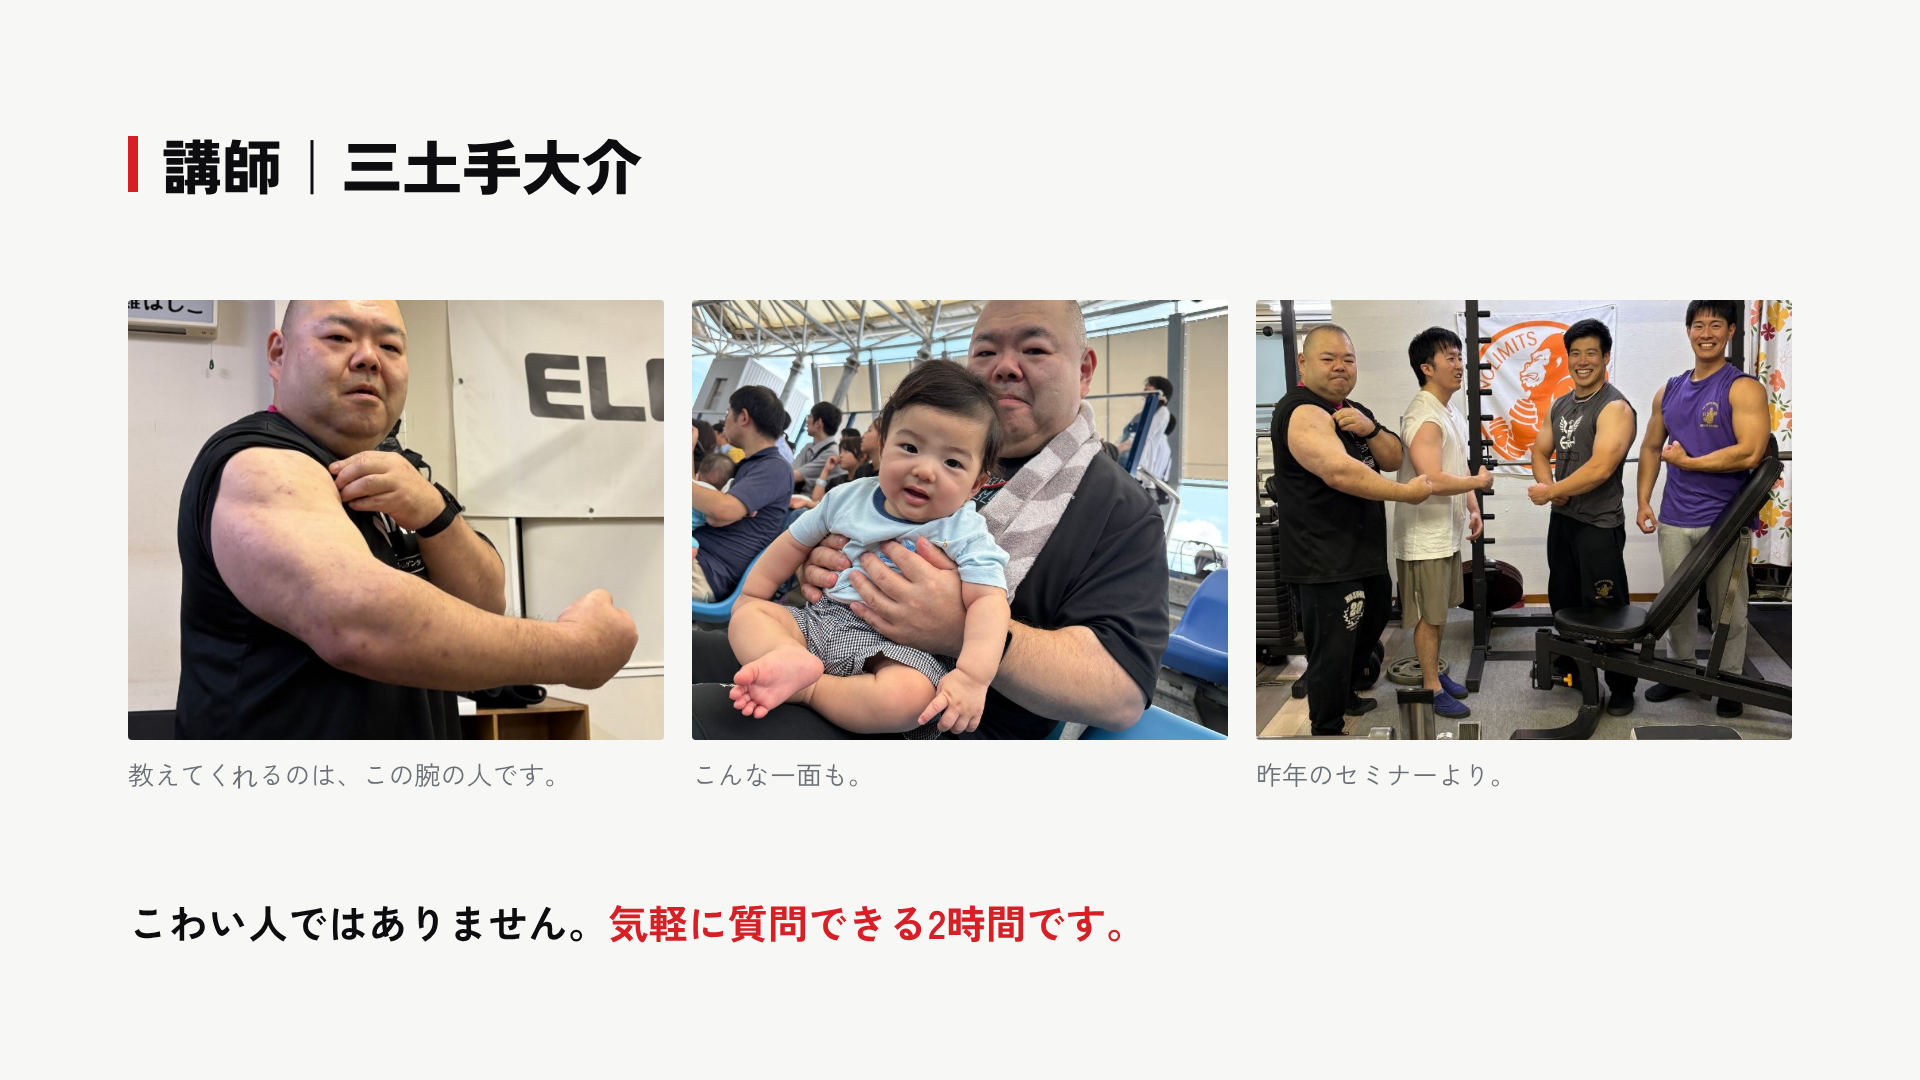
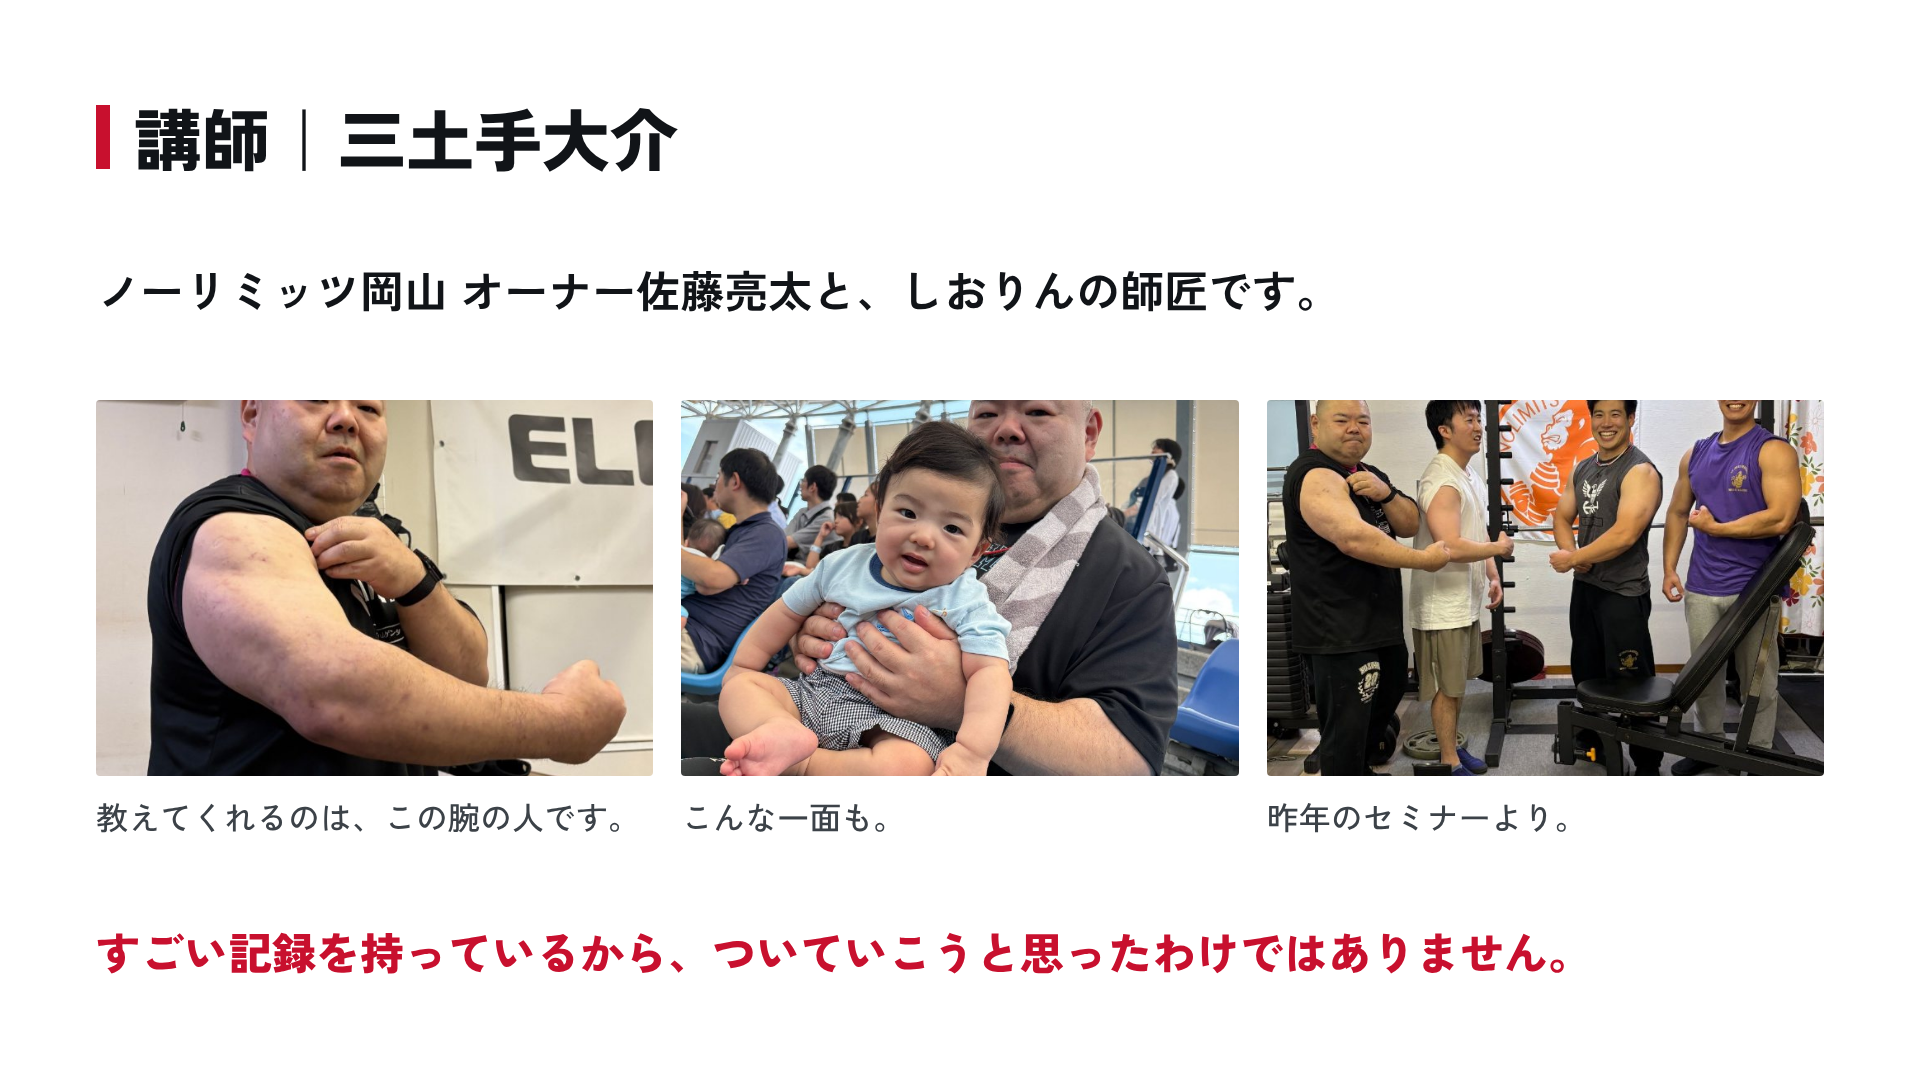
Rebuild the seminar signage for readability, and add the mentor slide
Members reported the black slides were hard to read, so the deck is
now white with near-black text. Nothing lighter than #3C4248 carries
text, the smallest size is 30px (body 34px and up), and red and deep
blue are the only accents, both at 6:1 or better on white.

Adds a sixth slide carrying why the owner and Shiorin follow him:
he corrects by saying what would be better rather than what is wrong,
he tries everything himself first, and he sees from above what we
cannot see up close.

Claude-Session: https://claude.ai/code/session_0169r95ZiBATNM4wyux34bk9

diff --git a/print/midote-png/README.md b/print/midote-png/README.md
@@ -1,15 +1,23 @@
 # midote-png — 三土手大介先生セミナー サイネージ（2026.12.13）
 
-ジムのディスプレイ用スライド5枚。1920×1080px。
+ジムのディスプレイ用スライド6枚。1920×1080px。
 
 | ファイル | 内容 |
 | --- | --- |
 | `01-cover.png` | タイトル・日程・講師 |
 | `02-teacher.png` | 講師紹介（写真3点） |
-| `03-content.png` | セミナーで扱うこと |
-| `04-price.png` | 料金・参加者特典 |
-| `05-apply.png` | 開催概要・申し込み |
+| `03-why.png` | 師事する理由（しおりんの言葉） |
+| `04-content.png` | セミナーで扱うこと |
+| `05-price.png` | 料金・参加者特典 |
+| `06-apply.png` | 開催概要・申し込み |
 
-配色・書体は主催側の開催要項PDFに合わせている（黒・白・赤 `#D81F26`、
-日付のみ `#35C5F0`／Zen Kaku Gothic New + Oswald）。
+## 配色の方針（視認性優先）
+
+50代・老眼の方が離れた位置から読めることを最優先にしている。
+
+- 白地（`#FFFFFF` / `#F2F2EF`）に黒文字（`#111418`）。黒地は使わない
+- 補助文字も `#3C4248` までに留め、薄いグレーは使わない
+- 強調は赤 `#C8102E`、数字は濃い青 `#0B5FA5`。いずれも白地で6:1以上の明度差
+- 最小文字サイズ 30px、本文は34px以上。枠線は3px以上
+
 写真の元データは `assets/midote/`。
